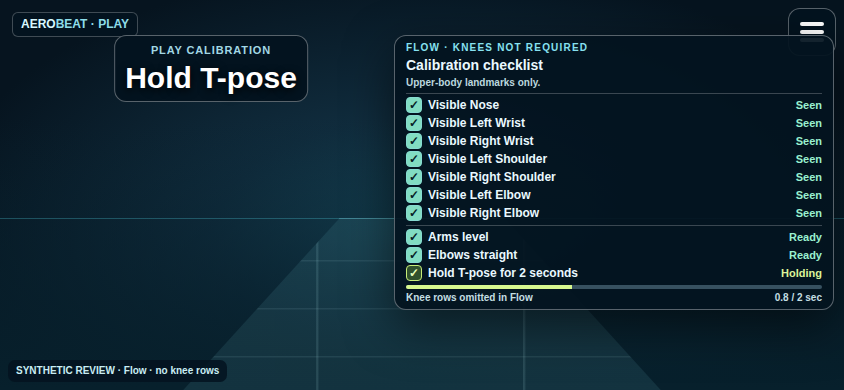
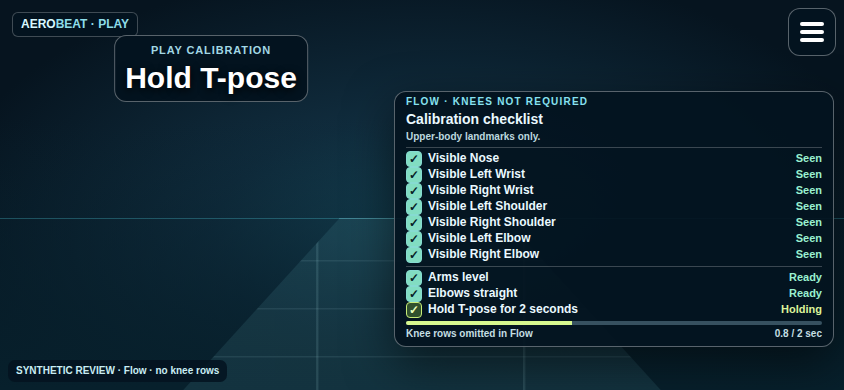
Revise calibration mockup spacing for landscape and desktop

Changed region(s): [[0.4621, 0.0923, 1.0, 0.8923], [0.9242, 0.0615, 0.9858, 0.1231]]

diff --git a/design/play-calibration-checklist.html b/design/play-calibration-checklist.html
@@ -12,8 +12,8 @@
 .brand{position:absolute;top:12px;left:12px;z-index:2;color:#d9f8ff;background:#03131fbd;border:1px solid #ffffff3d;border-radius:6px;padding:3px 8px;font:700 12px/1.4 system-ui}.brand span{color:#8ddde9}.menu{position:absolute;top:8px;right:8px;width:48px;height:48px;border:1px solid #ffffff57;border-radius:12px;background:#03131f;display:grid;place-content:center;gap:4px;z-index:2}.menu i{display:block;width:24px;height:4px;border-radius:5px;background:#fff}.menu:after{content:"";position:absolute;inset:0}
 /* The single shell cue matches the real assembled Play positioning/tone; checklist is proposed underneath. */
 .cue{position:absolute;z-index:4;top:18%;left:50%;transform:translateX(-50%);max-width:calc(100% - 32px);white-space:nowrap;border:1px solid #ffffff57;border-radius:12px;background:#03131f;color:#fff;font:900 clamp(24px,8vw,52px)/1 system-ui;text-align:center;text-shadow:0 2px 8px #000;padding:8px 10px}.cue span{display:block;font:700 11px/1.25 system-ui;letter-spacing:.08em;text-transform:uppercase;color:#a2d8e5;text-shadow:none;margin:0 0 5px}
-.panel{position:absolute;z-index:3;left:50%;top:calc(18% + clamp(78px,10vw,90px));transform:translateX(-50%);width:min(92vw,420px);max-height:calc(100% - 18% - clamp(78px,10vw,90px) - 15px);overflow:auto;overscroll-behavior:contain;border:1px solid #ffffff57;border-radius:12px;background:#03131fee;box-shadow:0 16px 48px #0008;padding:12px 14px 13px}.panel header{padding-bottom:8px;margin-bottom:8px;border-bottom:1px solid #ffffff38}.eyebrow{font:800 10px/1.3 system-ui;text-transform:uppercase;letter-spacing:.12em;color:#87e2f0}.panel h1{font:800 17px/1.15 system-ui;margin:3px 0}.panel p{font:600 11px/1.35 system-ui;color:#bbd8df;margin:2px 0 0}.rows{list-style:none;padding:0;margin:0;display:grid;gap:3px}.row{display:grid;grid-template-columns:16px minmax(0,1fr) auto;align-items:center;gap:8px;min-height:24px;font:650 12px/1.2 system-ui}.row .icon{width:16px;height:16px;border:1.5px solid #86dbd1;border-radius:4px;display:grid;place-items:center;color:#081d27;background:#82ddc2;font:900 12px/1 system-ui}.row .value{color:#9af0d0;font:800 11px/1 system-ui}.row.missing .icon{background:#432724;border-color:#ffb390;color:#ffcaac}.row.missing .value{color:#ffbf9e}.row.waiting .icon{background:#1b3541;border-color:#87b0bf;color:#a4d8e5}.row.waiting .value{color:#b4d0dd}.row.holding .icon{background:#31512d;border-color:#c7ed78;color:#eaffbb}.row.holding .value{color:#dbf39a}.row.done .icon{background:#b9f4c3;color:#082b25}.row.done .value{color:#d5ffda}.divider{border-top:1px solid #ffffff38;margin:7px 0}.progress{height:4px;border-radius:4px;background:#375160;margin:7px 0 0;overflow:hidden}.progress>span{display:block;height:100%;background:#d7f88f;width:var(--progress)}.foot{display:flex;justify-content:space-between;gap:8px;margin-top:6px;color:#c4dfe3;font:700 10px/1.3 system-ui}.sample{position:absolute;bottom:8px;left:8px;right:8px;z-index:2;color:#c9edf3;background:#03131fdb;border-radius:7px;padding:5px 8px;width:max-content;max-width:calc(100% - 16px);font:700 10px/1.25 system-ui}
-@media(max-height:480px){.cue{top:9%;left:25%;font-size:clamp(22px,4vw,30px)}.panel{top:9%;left:auto;right:10px;transform:none;width:min(57vw,440px);height:auto;max-height:calc(91% - 8px);padding:5px 11px}.panel header{padding-bottom:3px;margin-bottom:3px}.row{min-height:17px;gap:6px}.rows{gap:1px}.divider{margin:3px 0}.progress{margin-top:3px}.foot{margin-top:2px}.panel h1{font-size:14px}.panel p{font-size:10px}.sample{max-width:35vw}.lane{top:56%}.horizon{top:56%}}
+.panel{position:absolute;z-index:3;left:50%;top:calc(18% + clamp(78px,10vw,90px) + 12px);transform:translateX(-50%);width:min(92vw,420px);max-height:calc(100% - 18% - clamp(78px,10vw,90px) - 27px);overflow:auto;overscroll-behavior:contain;border:1px solid #ffffff57;border-radius:12px;background:#03131fee;box-shadow:0 16px 48px #0008;padding:12px 14px 13px}.panel header{padding-bottom:8px;margin-bottom:8px;border-bottom:1px solid #ffffff38}.eyebrow{font:800 10px/1.3 system-ui;text-transform:uppercase;letter-spacing:.12em;color:#87e2f0}.panel h1{font:800 17px/1.15 system-ui;margin:3px 0}.panel p{font:600 11px/1.35 system-ui;color:#bbd8df;margin:2px 0 0}.rows{list-style:none;padding:0;margin:0;display:grid;gap:3px}.row{display:grid;grid-template-columns:16px minmax(0,1fr) auto;align-items:center;gap:8px;min-height:24px;font:650 12px/1.2 system-ui}.row .icon{width:16px;height:16px;border:1.5px solid #86dbd1;border-radius:4px;display:grid;place-items:center;color:#081d27;background:#82ddc2;font:900 12px/1 system-ui}.row .value{color:#9af0d0;font:800 11px/1 system-ui}.row.missing .icon{background:#432724;border-color:#ffb390;color:#ffcaac}.row.missing .value{color:#ffbf9e}.row.waiting .icon{background:#1b3541;border-color:#87b0bf;color:#a4d8e5}.row.waiting .value{color:#b4d0dd}.row.holding .icon{background:#31512d;border-color:#c7ed78;color:#eaffbb}.row.holding .value{color:#dbf39a}.row.done .icon{background:#b9f4c3;color:#082b25}.row.done .value{color:#d5ffda}.divider{border-top:1px solid #ffffff38;margin:7px 0}.progress{height:4px;border-radius:4px;background:#375160;margin:7px 0 0;overflow:hidden}.progress>span{display:block;height:100%;background:#d7f88f;width:var(--progress)}.foot{display:flex;justify-content:space-between;gap:8px;margin-top:6px;color:#c4dfe3;font:700 10px/1.3 system-ui}.sample{position:absolute;bottom:8px;left:8px;right:8px;z-index:2;color:#c9edf3;background:#03131fdb;border-radius:7px;padding:5px 8px;width:max-content;max-width:calc(100% - 16px);font:700 10px/1.25 system-ui}
+@media(max-height:480px){.cue{top:9%;left:25%;font-size:clamp(22px,4vw,30px)}.panel{top:calc(9% + 56px);left:auto;right:10px;transform:none;width:min(57vw,440px);height:auto;max-height:calc(91% - 56px - 8px);padding:3px 11px 6px}.panel header{padding-bottom:3px;margin-bottom:3px}.row{min-height:16px;gap:6px}.rows{gap:0}.divider{margin:3px 0}.progress{margin-top:3px}.foot{margin-top:2px}.panel h1{font-size:14px}.panel p{font-size:10px}.sample{max-width:35vw}.lane{top:56%}.horizon{top:56%}}
 </style>
 </head>
 <body><main aria-label="Synthetic AeroBeat Play shell calibration design">

diff --git a/.plans/2026-10-25-play-calibration-checklist-design.md b/.plans/2026-10-25-play-calibration-checklist-design.md
@@ -1,6 +1,6 @@
 # Play calibration checklist — screenshot approval checkpoint
 
-**Status:** Design artifacts ready for screenshot review; Derrick has not approved production checklist UI. Owner: aerobeat-web-ui, current main. Parent: assembly `.plans/2026-10-25-boxing-heights-fixed-colliders-knee-calibration.md`, task D. No production UI, assembly runtime, input, gameplay, renderer, route, or public release edits are in scope.
+**Status:** Design revision 2 ready for renewed screenshot review; Derrick identified landscape hamburger overlap and an almost-touching desktop cue/card in revision 1. Neither revision has production UI approval. Owner: aerobeat-web-ui, current main. Parent: assembly `.plans/2026-10-25-boxing-heights-fixed-colliders-knee-calibration.md`, task D. No production UI, assembly runtime, input, gameplay, renderer, route, or public release edits are in scope.
 
 ## Decision and next check
 
@@ -26,3 +26,9 @@ Owner repo has no Beads database (`bd ready --json`: no database). Parent assemb
 ## Outcome
 
 Design-only, synthetic browser screenshots for Derrick's visual decision. No production screenshot, gameplay acceptance or approval claim. No change to public route.
+
+## Revision 2 — Derrick's screenshot feedback
+
+Derrick found the revision-1 landscape card overlapped the top-right hamburger (card x394–835 and button x788–835 at y36–53), while the desktop cue ended at y251 and card began at y252. Revision 2 changes **only static mockup CSS**: desktop/portrait card starts 12px lower; landscape card starts below the hamburger while retaining a compact two-column layout. The same capture command regenerated all ten screenshots, including the affected desktop (three) and landscape (two); portrait samples shifted down with the card and were also refreshed. The HTML and owner checkpoint are the only text changes; no production code changed. Screenshot names remain the same under `screenshots/play-calibration-checklist/`.
+
+Validation: Chromium/Playwright screenshots regenerated with the existing script; a read-only layout check across all five states at each of the three viewports found **zero menu/card intersections** and no card content scrolling/clipping. Desktop cue/card bounding boxes are y162–250.75 and y264–724.39 respectively (13.25px clearance). Landscape hamburger is x788–836, y8–56; knee-flicker card is x394–834, y91.09–377.69 (non-overlapping vertically); the hold-progress footer is fully visible. Human screenshot approval remains outstanding; parent production `ui_fidelity` stays pending.
